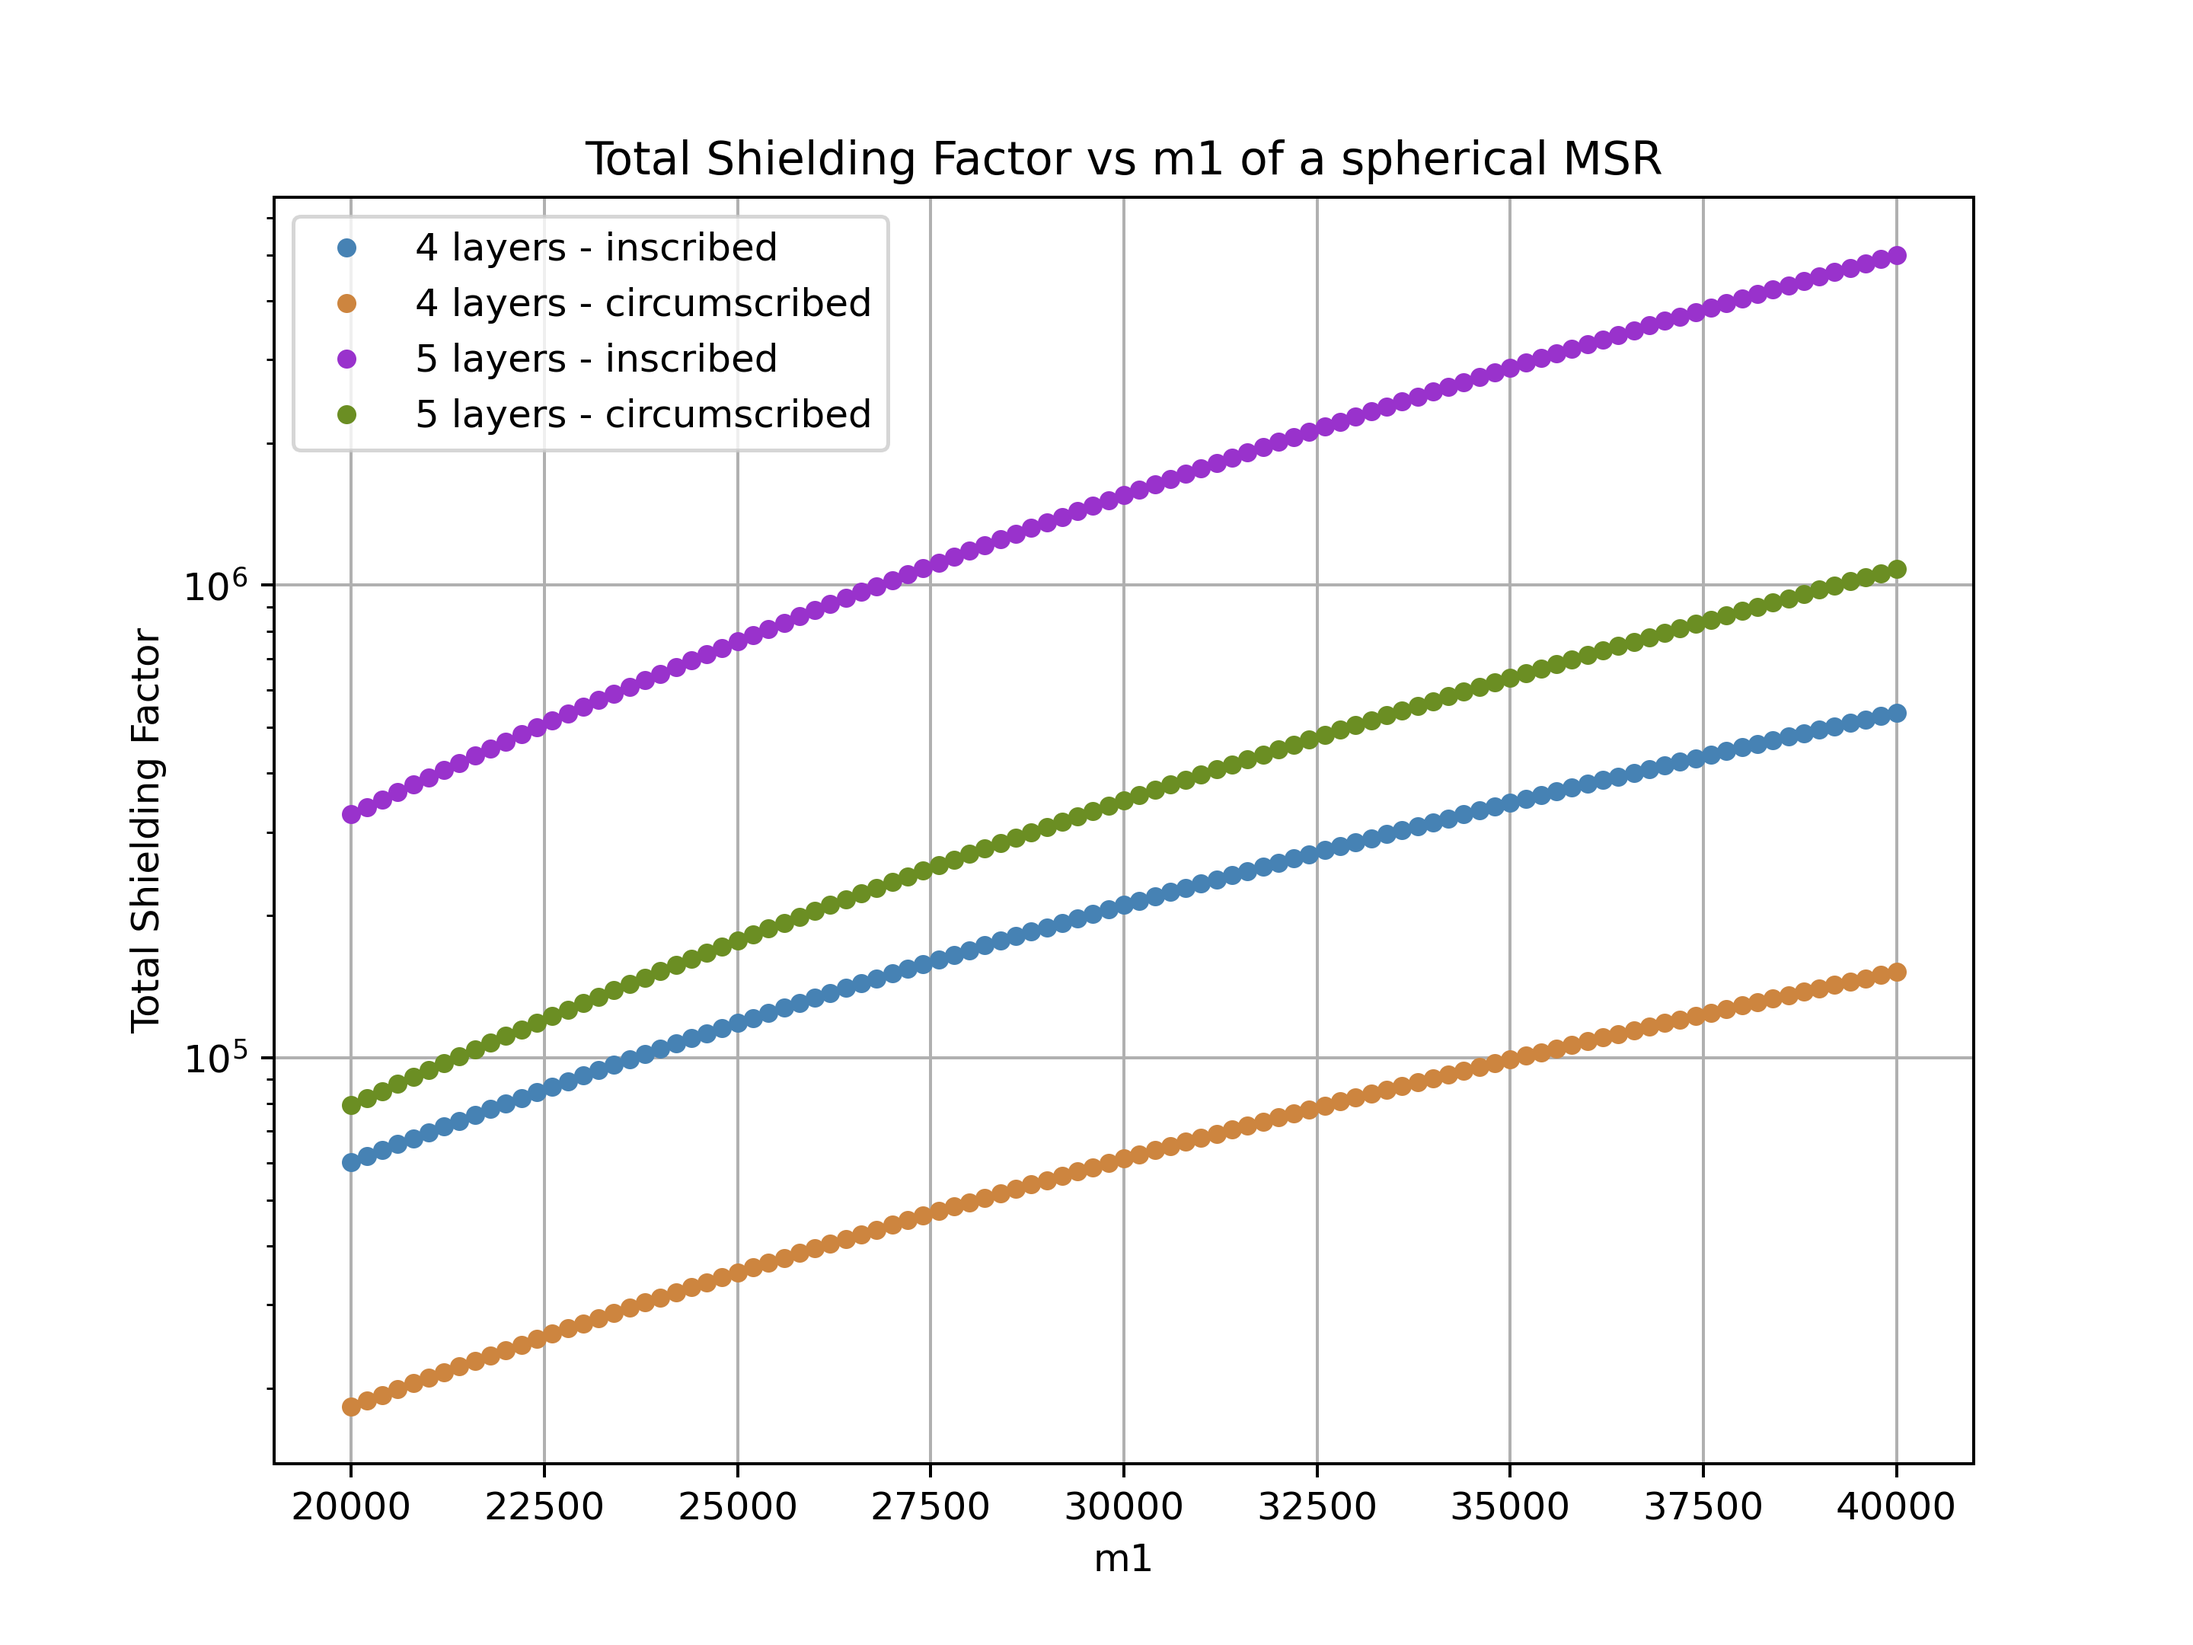
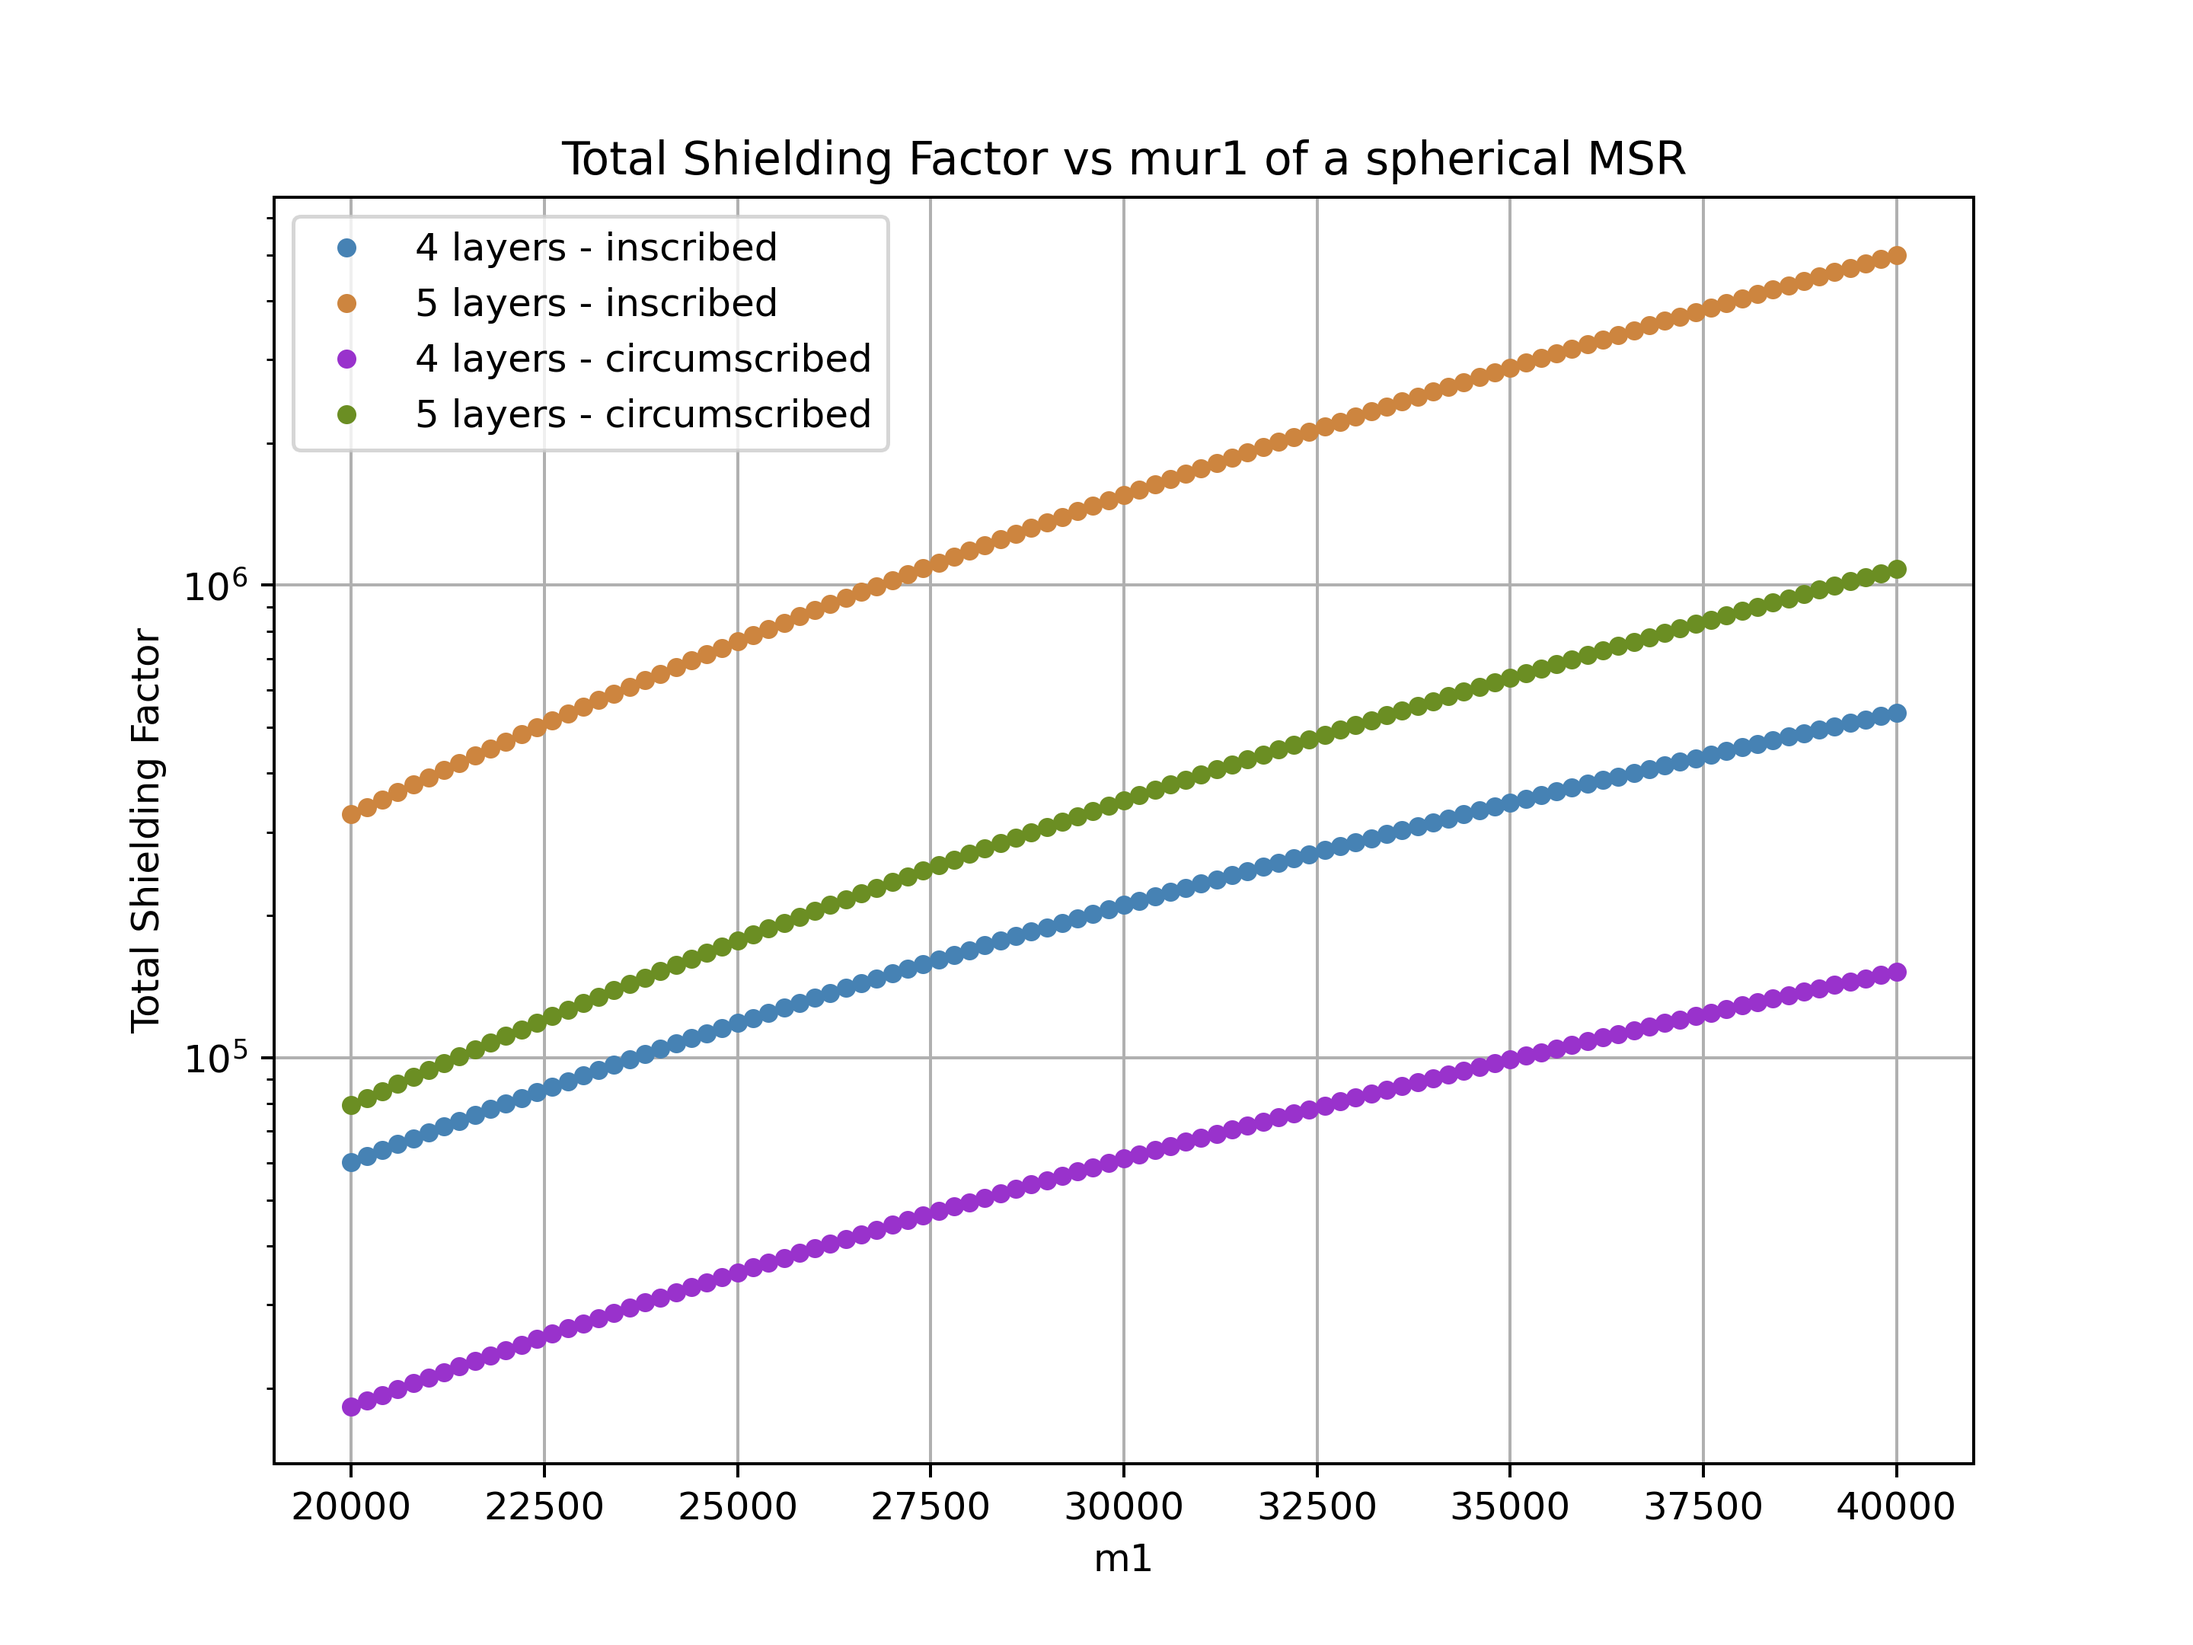
different mu layer 5 and 6

diff --git a/SF_vs_mur_sphericalMSR_different_mu.py b/SF_vs_mur_sphericalMSR_different_mu.py
@@ -19,8 +19,11 @@ class MatrixSolver:
         self.t = t
 
     def define_geometry(self):
-
-        self.mur = [self.m1] + [self.m2] * (self.capm - 1)
+        
+        if self.capm == 4:
+            self.mur = [self.m1] + [self.m2] * (self.capm - 1)
+        else:
+            self.mur = self.mur = [self.m1] + [self.m1] + [self.m2] * (self.capm - 2)
 
         j = 0
         for i in range(self.capm):
@@ -103,11 +106,11 @@ if __name__ == "__main__":
 
     plt.plot(m2_range, [MatrixSolver(capm_i_4, 1, capr1_i_4, t_4, m1_range, m2_range).solve() for m1_range, m2_range in zip(m1_range, m2_range)],
              'o', markersize=4, color='steelblue')
-
-    plt.plot(m2_range, [MatrixSolver(capm_o_4, 1, capr1_o_4, t_4, m1_range, m2_range).solve() for m1_range, m2_range in zip(m1_range, m2_range)],
+    
+    plt.plot(m2_range, [MatrixSolver(capm_i_5, 1, capr1_i_5, t_5, m1_range, m2_range).solve() for m1_range, m2_range in zip(m1_range, m2_range)],
              'o', markersize=4, color='peru')
 
-    plt.plot(m2_range, [MatrixSolver(capm_i_5, 1, capr1_i_5, t_5, m1_range, m2_range).solve() for m1_range, m2_range in zip(m1_range, m2_range)],
+    plt.plot(m2_range, [MatrixSolver(capm_o_4, 1, capr1_o_4, t_4, m1_range, m2_range).solve() for m1_range, m2_range in zip(m1_range, m2_range)],
              'o', markersize=4, color='darkorchid')
 
     plt.plot(m2_range, [MatrixSolver(capm_o_5, 1, capr1_o_5, t_5, m1_range, m2_range).solve() for m1_range, m2_range in zip(m1_range, m2_range)],
@@ -116,13 +119,13 @@ if __name__ == "__main__":
     plt.xlabel('m1')
     plt.ylabel('Total Shielding Factor')
     plt.yscale('log')
-    plt.legend(['4 layers - inscribed', '4 layers - circumscribed',
-               '5 layers - inscribed', '5 layers - circumscribed'])
+    plt.legend(['4 layers - inscribed', '5 layers - inscribed',
+               '4 layers - circumscribed', '5 layers - circumscribed'])
     plt.grid()
-    plt.title('Total Shielding Factor vs m1 of a spherical MSR')
+    plt.title('Total Shielding Factor vs mur1 of a spherical MSR')
     plt.show()
 
     output_folder = "Figures"
     os.makedirs(output_folder, exist_ok=True)
-    output_file_path = os.path.join(output_folder, "SF_vs_m1_sphered.png")
+    output_file_path = os.path.join(output_folder, "SF_vs_m1_sphere_2m_2l.png")
     plt.savefig(output_file_path, dpi=360)
